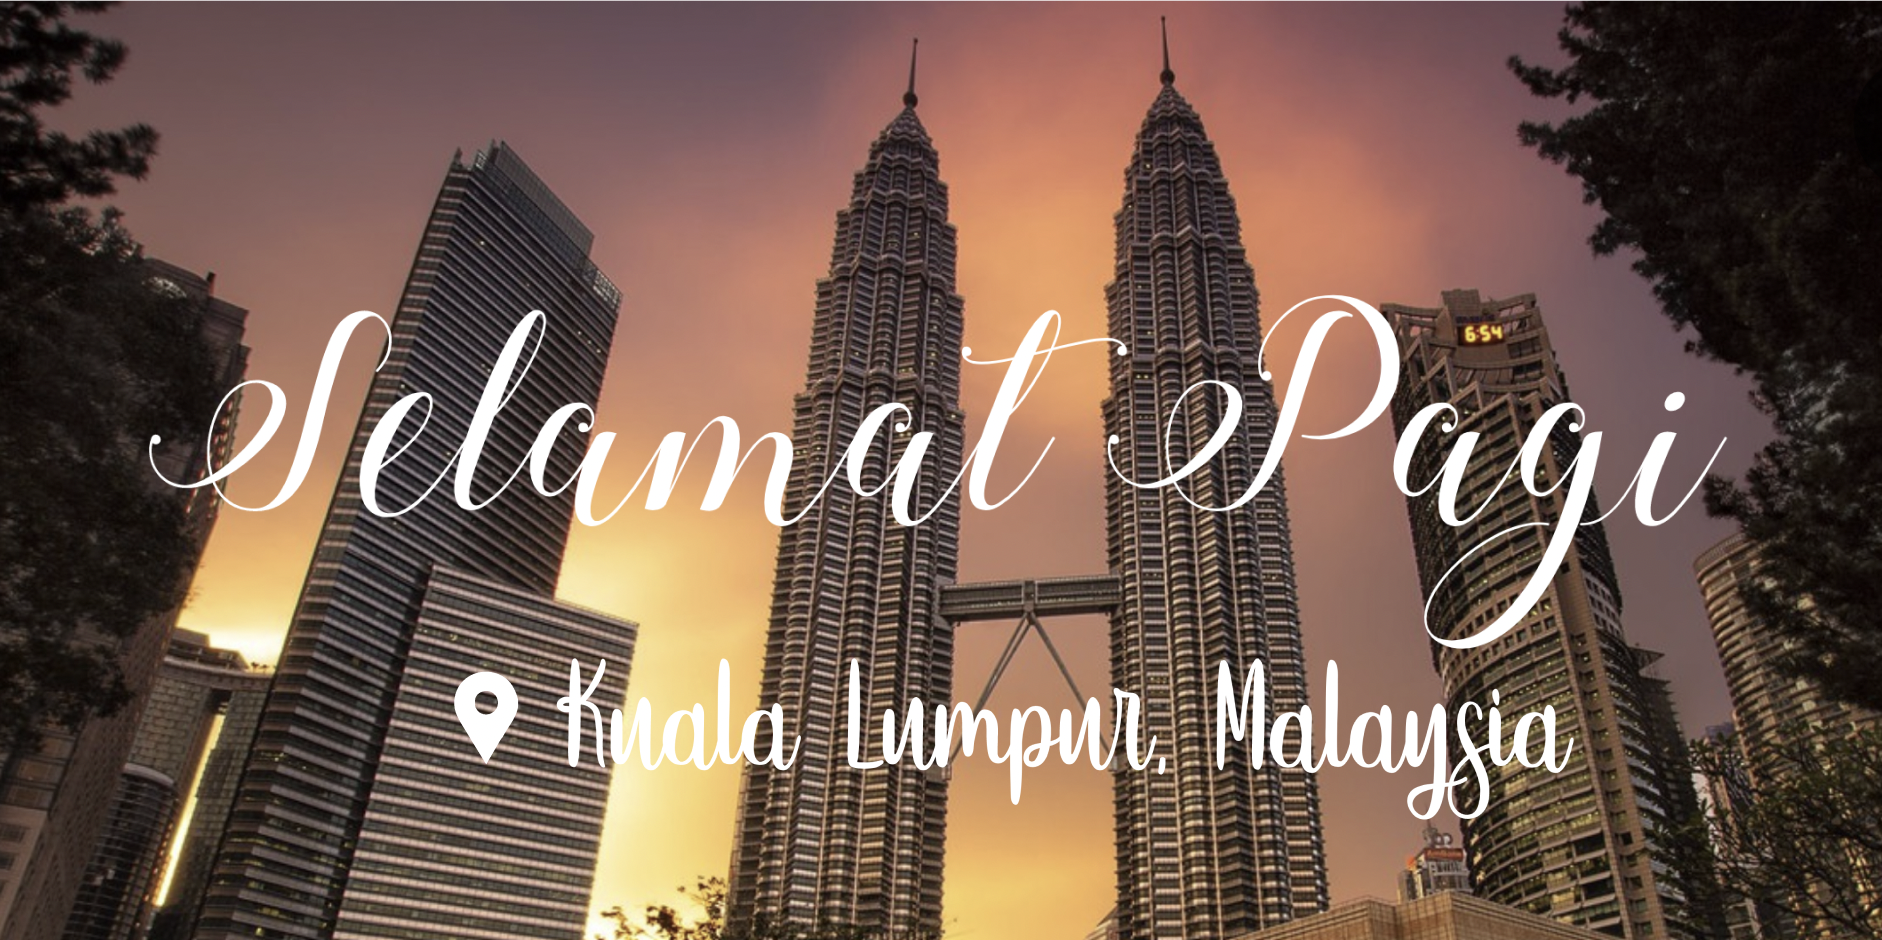
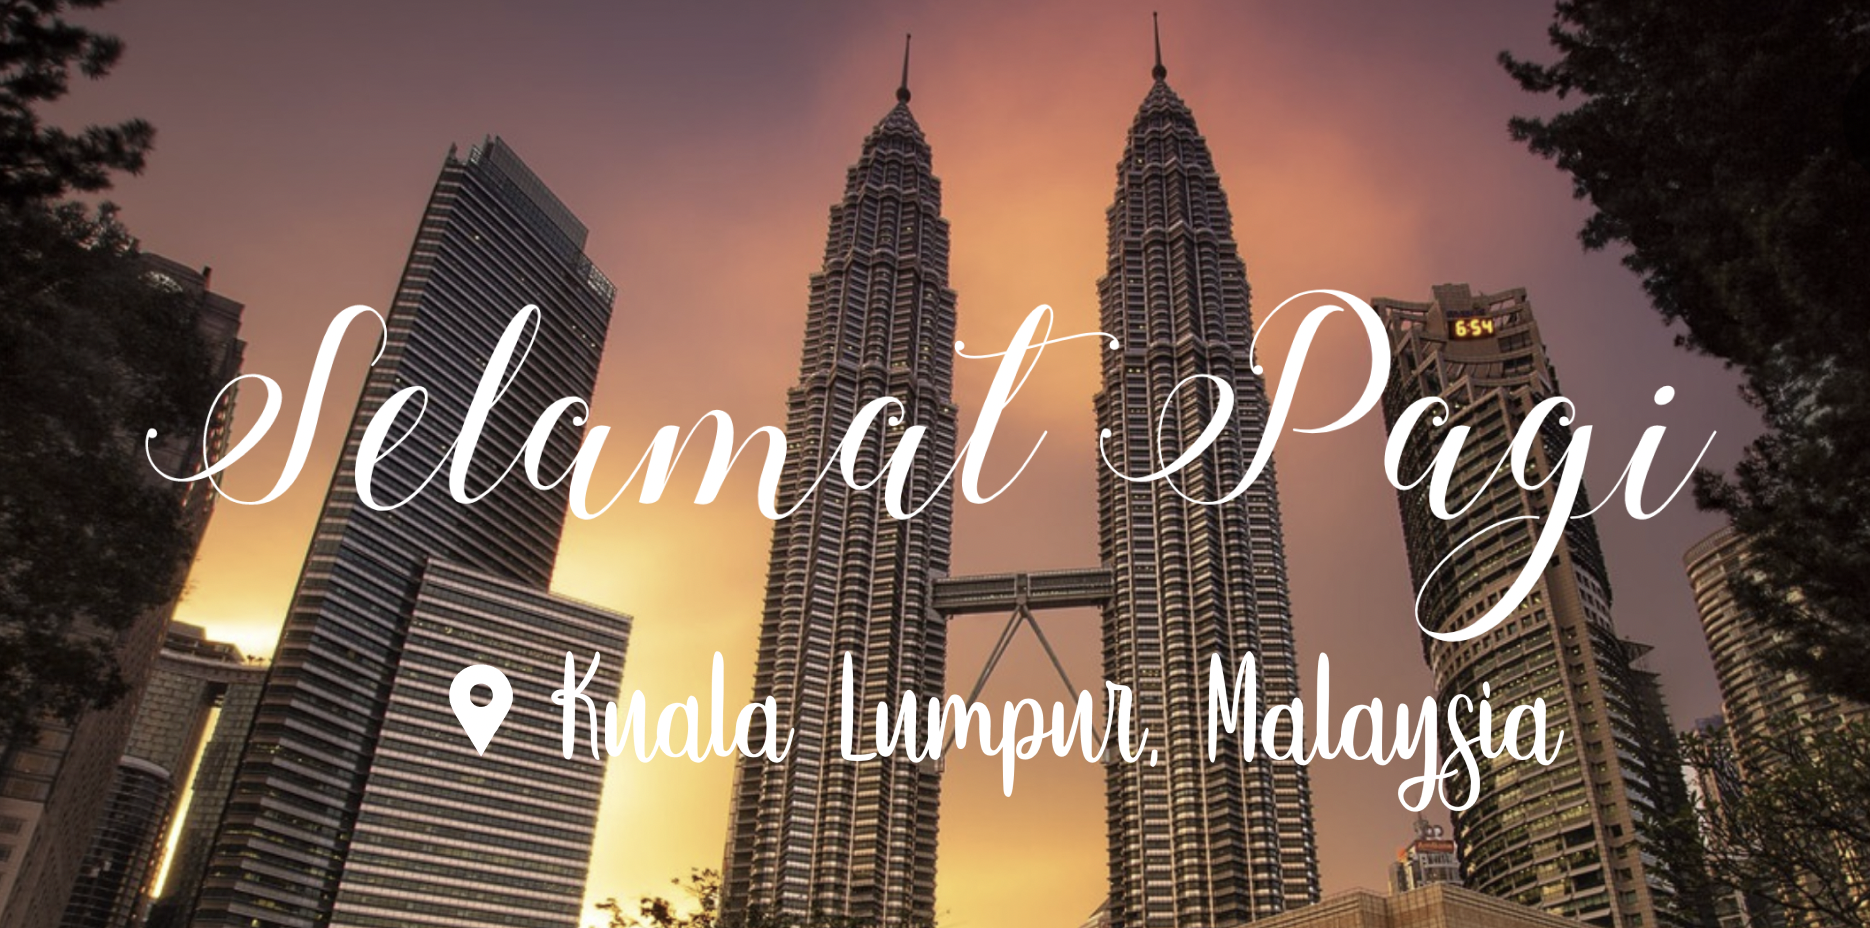
image size + carousel

diff --git a/home2.html b/home2.html
@@ -41,7 +41,7 @@
     <script src="https://unpkg.com/axios/dist/axios.js"></script>
 </head>
 <body onload="checkLogin()">
-  <header class="header-top bg-grey" style="height: calc(11vh);">
+  <header class="header-top bg-grey">
     <nav class="navbar navbar-expand-md navigation-2 navigation py-1">
       <div class="container-fluid">
         <a class="navbar-brand text-uppercase py-0" href="home2.html">
@@ -76,22 +76,22 @@
 
   <!-- Content -->
   <!-- greetings -->
-  <div id="carouselExampleControls" class="carousel slide" data-bs-ride="carousel" style="height: calc(89vh);">
+  <div id="carouselExampleControls" class="carousel slide" data-bs-ride="carousel">
     <div class="carousel-inner">
       <div class="carousel-item active">
-        <img src="images/french.png" class="d-block" alt="Hawaii, USA" style="width: 100%; object-fit: cover;">
+        <img src="images/french.png" class="d-block img-fluid" alt="Hawaii, USA">
       </div>
       <div class="carousel-item">
-        <img src="images/hawaiian.png" class="d-block w-100" alt="Paris, France" style="width: 100%; object-fit: cover;">
+        <img src="images/hawaiian.png" class="d-block w-100" alt="Paris, France">
       </div>
       <div class="carousel-item">
-        <img src="images/chinese.png" class="d-block w-100" alt="Kuala Lumpur, Malaysia" style="width: 100%; object-fit: cover;">
+        <img src="images/chinese.png" class="d-block w-100" alt="Kuala Lumpur, Malaysia">
       </div>
       <div class="carousel-item">
-        <img src="images/portugese.png" class="d-block w-100" alt="Rio De Janeiro, Brazil" style="width: 100%; object-fit: cover;">
+        <img src="images/portugese.png" class="d-block w-100" alt="Rio De Janeiro, Brazil">
       </div>
       <div class="carousel-item">
-        <img src="images/malay.png" class="d-block w-100" alt="Shanghai, China" style="width: 100%; object-fit: cover;">
+        <img src="images/malay.png" class="d-block w-100" alt="Shanghai, China">
       </div>
     </div>
     <button class="carousel-control-prev" type="button" data-bs-target="#carouselExampleControls" data-bs-slide="prev">
